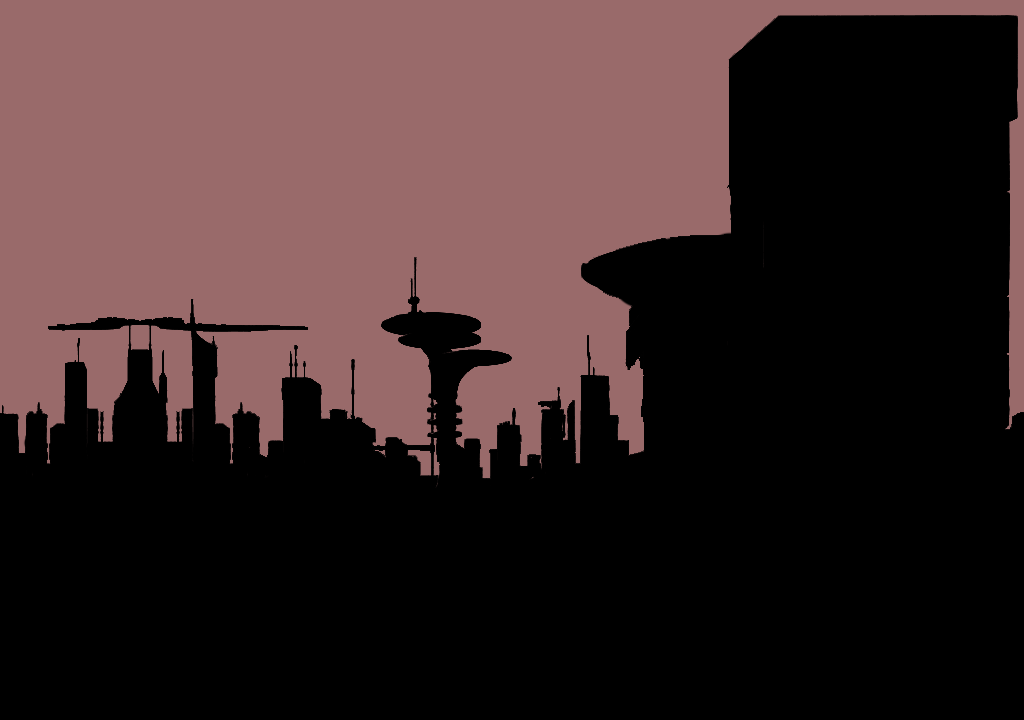
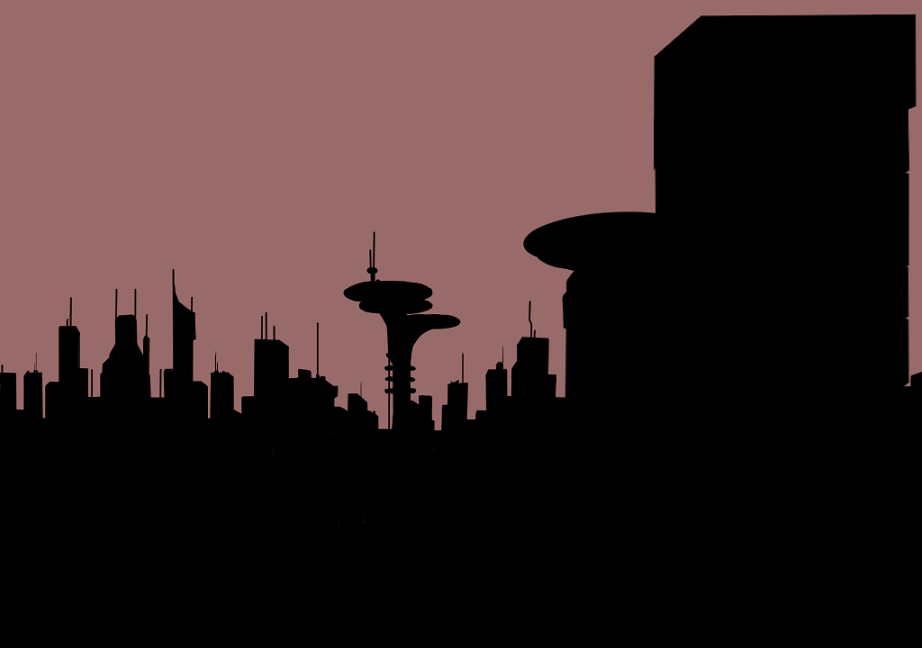
fix first game page

diff --git a/ToxExt/EmptyProject/first_game_page.h b/ToxExt/EmptyProject/first_game_page.h
@@ -48,11 +48,14 @@ public:
 	int timer = 3 * 60;
 
 	LPDIRECT3DTEXTURE9* backgroundTex;
+	LPDIRECT3DTEXTURE9* basicTex;
 	LPDIRECT3DTEXTURE9* floorTex;
 	LPDIRECT3DTEXTURE9* basicMaskTex;
 	LPDIRECT3DTEXTURE9* badMaskTex;
 	LPDIRECT3DTEXTURE9* finishTex;
 	LPDIRECT3DTEXTURE9* clearTex;
+	LPDIRECT3DTEXTURE9* timerFrameTex;
+	LPDIRECT3DTEXTURE9* timerFillTex;
 	LPD3DXSPRITE spr;
 
 
@@ -63,8 +66,11 @@ public:
 	int virtualMap[FLOOR_PIXEL];
 	int prevMap[FLOOR_PIXEL];
 
-	ID3DXFont* font;
+	ID3DXFont* font; 
 	ID3DXFont* timerFont;
+	ID3DXFont* titleFont;
+	ID3DXFont* persentFont;
+	ID3DXFont* scoreFont;
 
 	void Load();
 

diff --git a/ToxExt/EmptyProject/player.cpp b/ToxExt/EmptyProject/player.cpp
@@ -37,9 +37,9 @@ Player::Player()
 	}
 
 	speed = 2;
-	hp = 5;
+	maxHP = 6;
+	hp = maxHP;
 	maxMove = 200;
-	maxHP = 5;
 	playerTex = new LPDIRECT3DTEXTURE9();
 	D3DXCreateTextureFromFileExA(
 		DXUTGetD3D9Device()
@@ -105,7 +105,7 @@ void Player::Render()
 	spr->Draw(*playerTex, nullptr, nullptr, &pos, D3DCOLOR_ARGB(255, 255, 255, 255));
 	for (int i = 0; i < hp; i++)
 	{
-		pos = {1180, (float)200 + (25 * i), 0 };
+		pos = { (float)1120 + (25 * i), 25, 0 };
 		if(isNotDamage)
 			spr->Draw(*hpTex, nullptr, nullptr, &pos, D3DCOLOR_ARGB(255, 255, 0, 0));
 		else

diff --git a/ToxExt/EmptyProject/global.h b/ToxExt/EmptyProject/global.h
@@ -7,12 +7,12 @@
 #define WINDOW_WIDTH 1280
 #define WINDOW_HEIGHT 720
 
-#define FLOOR_WIDTH 1024
-#define FLOOR_HEIGHT 720
+#define FLOOR_WIDTH 922
+#define FLOOR_HEIGHT 648
 #define FLOOR_PIXEL FLOOR_WIDTH * FLOOR_HEIGHT
 
 #define GAME_X (WINDOW_WIDTH - FLOOR_WIDTH) / 2
-#define GAME_Y 0
+#define GAME_Y WINDOW_HEIGHT - FLOOR_HEIGHT
 
 
 #define BUTTON_WIDTH 160
